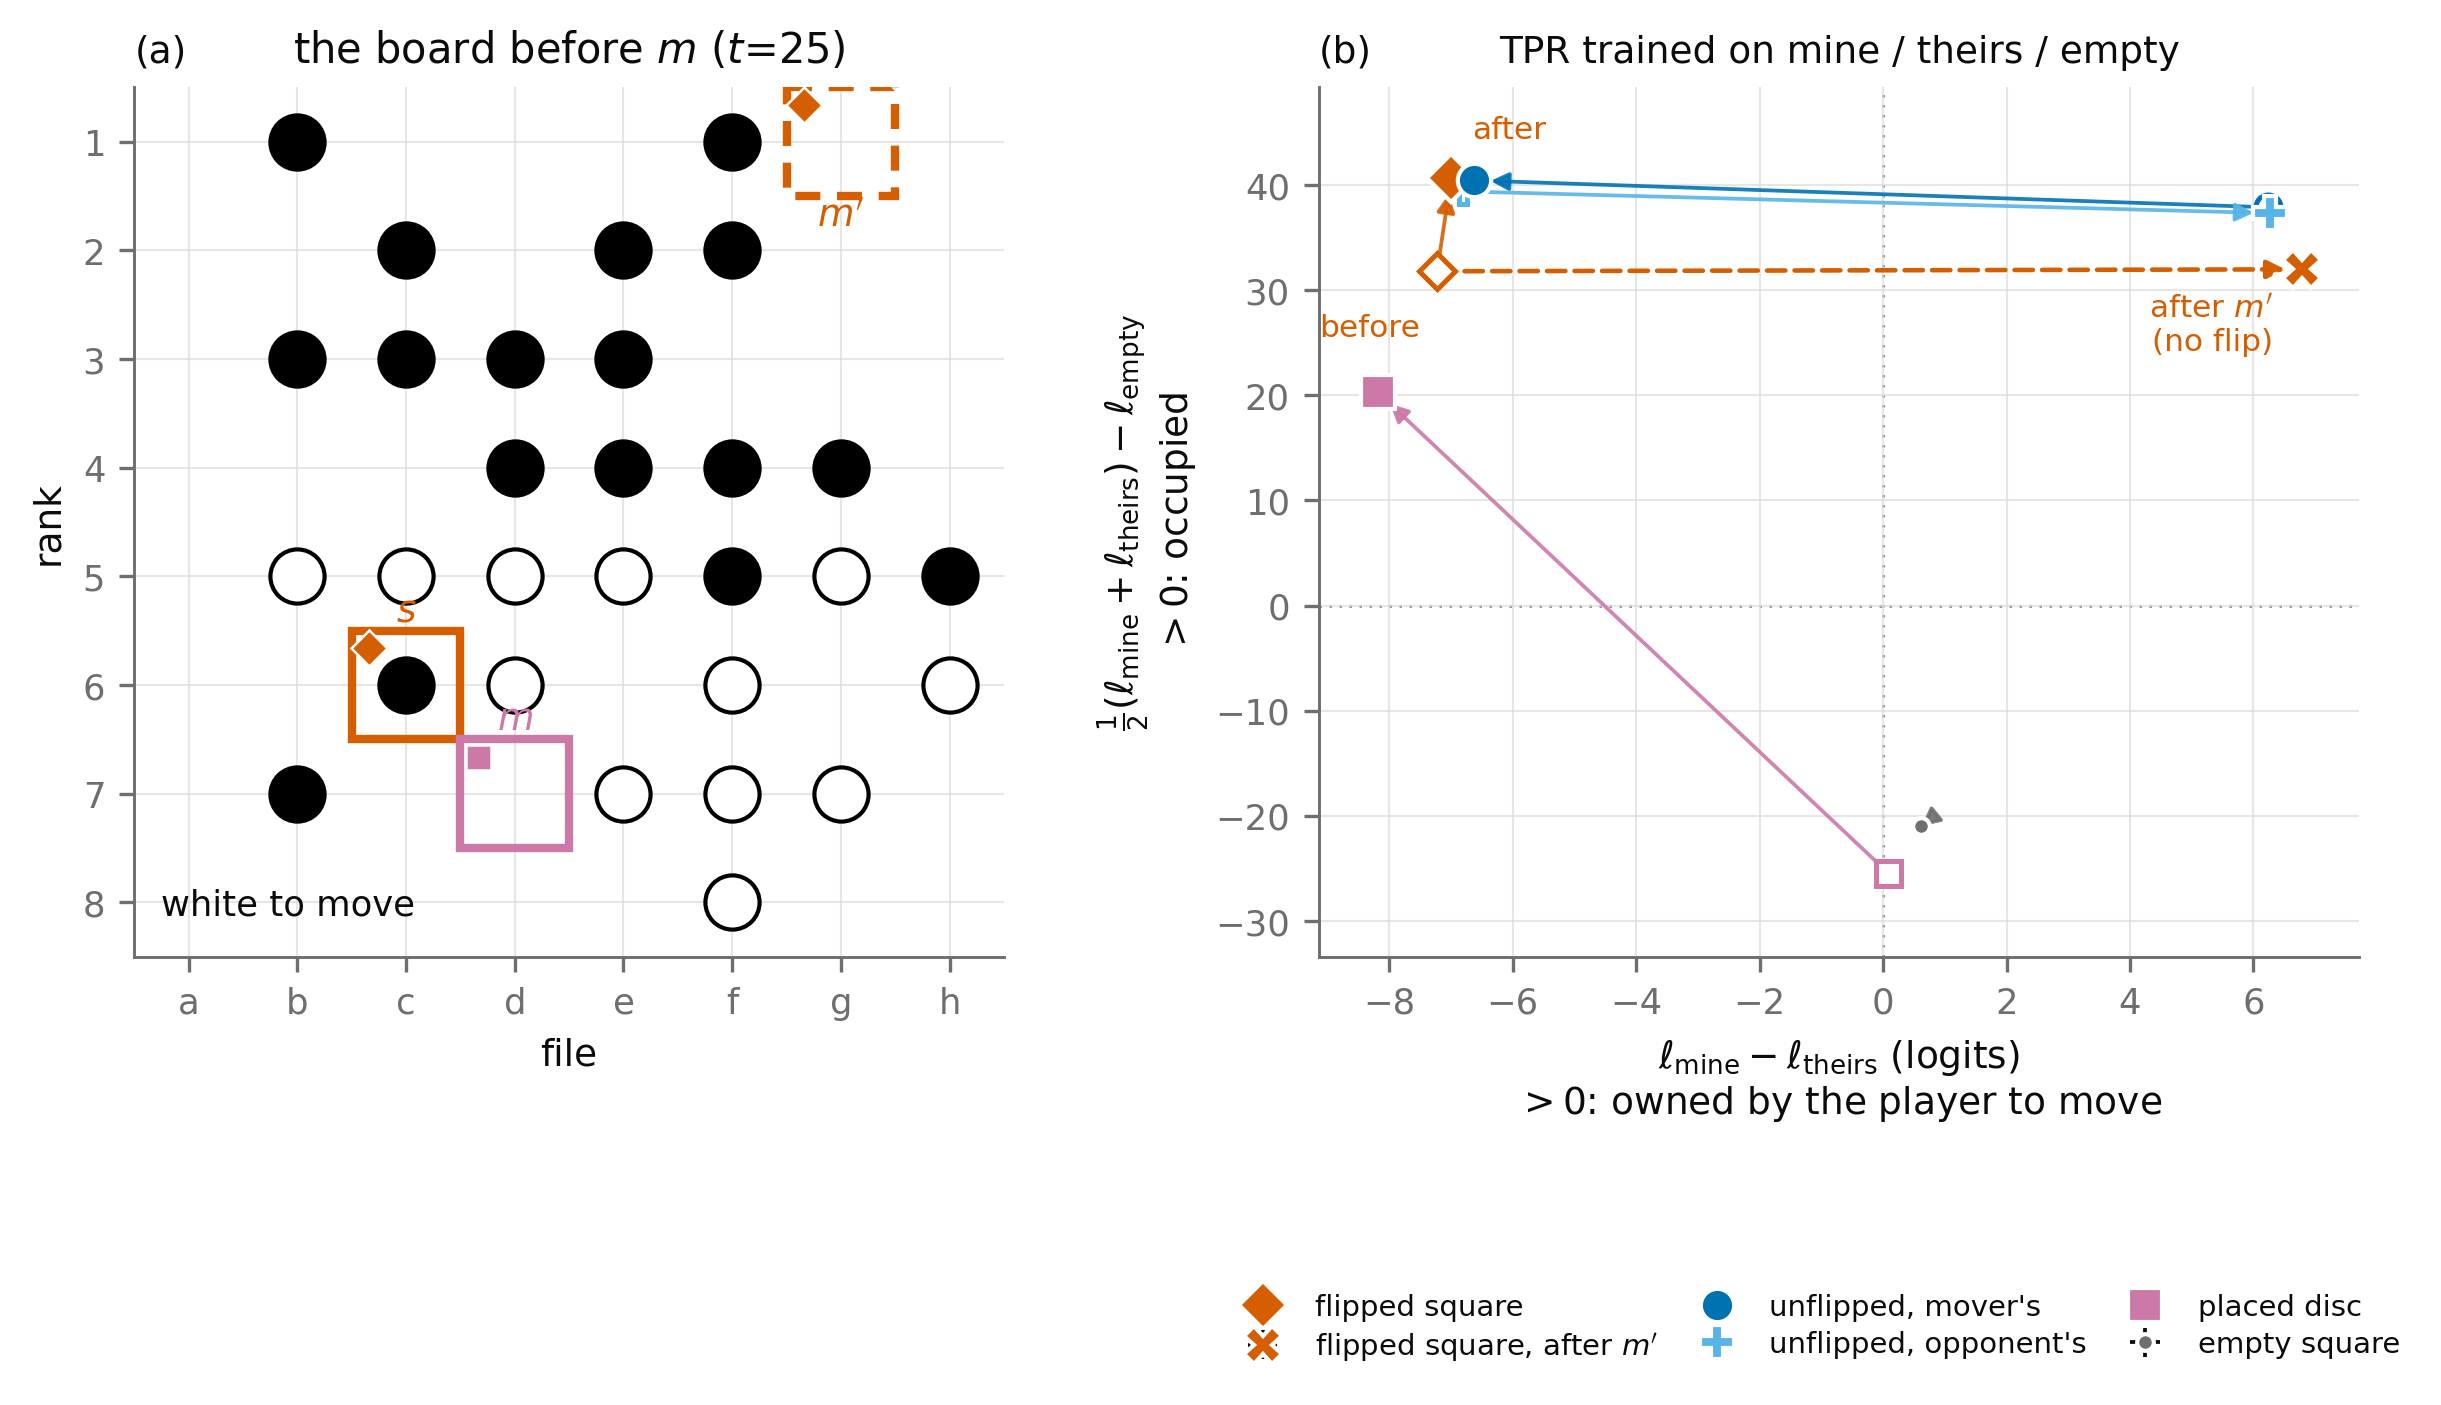
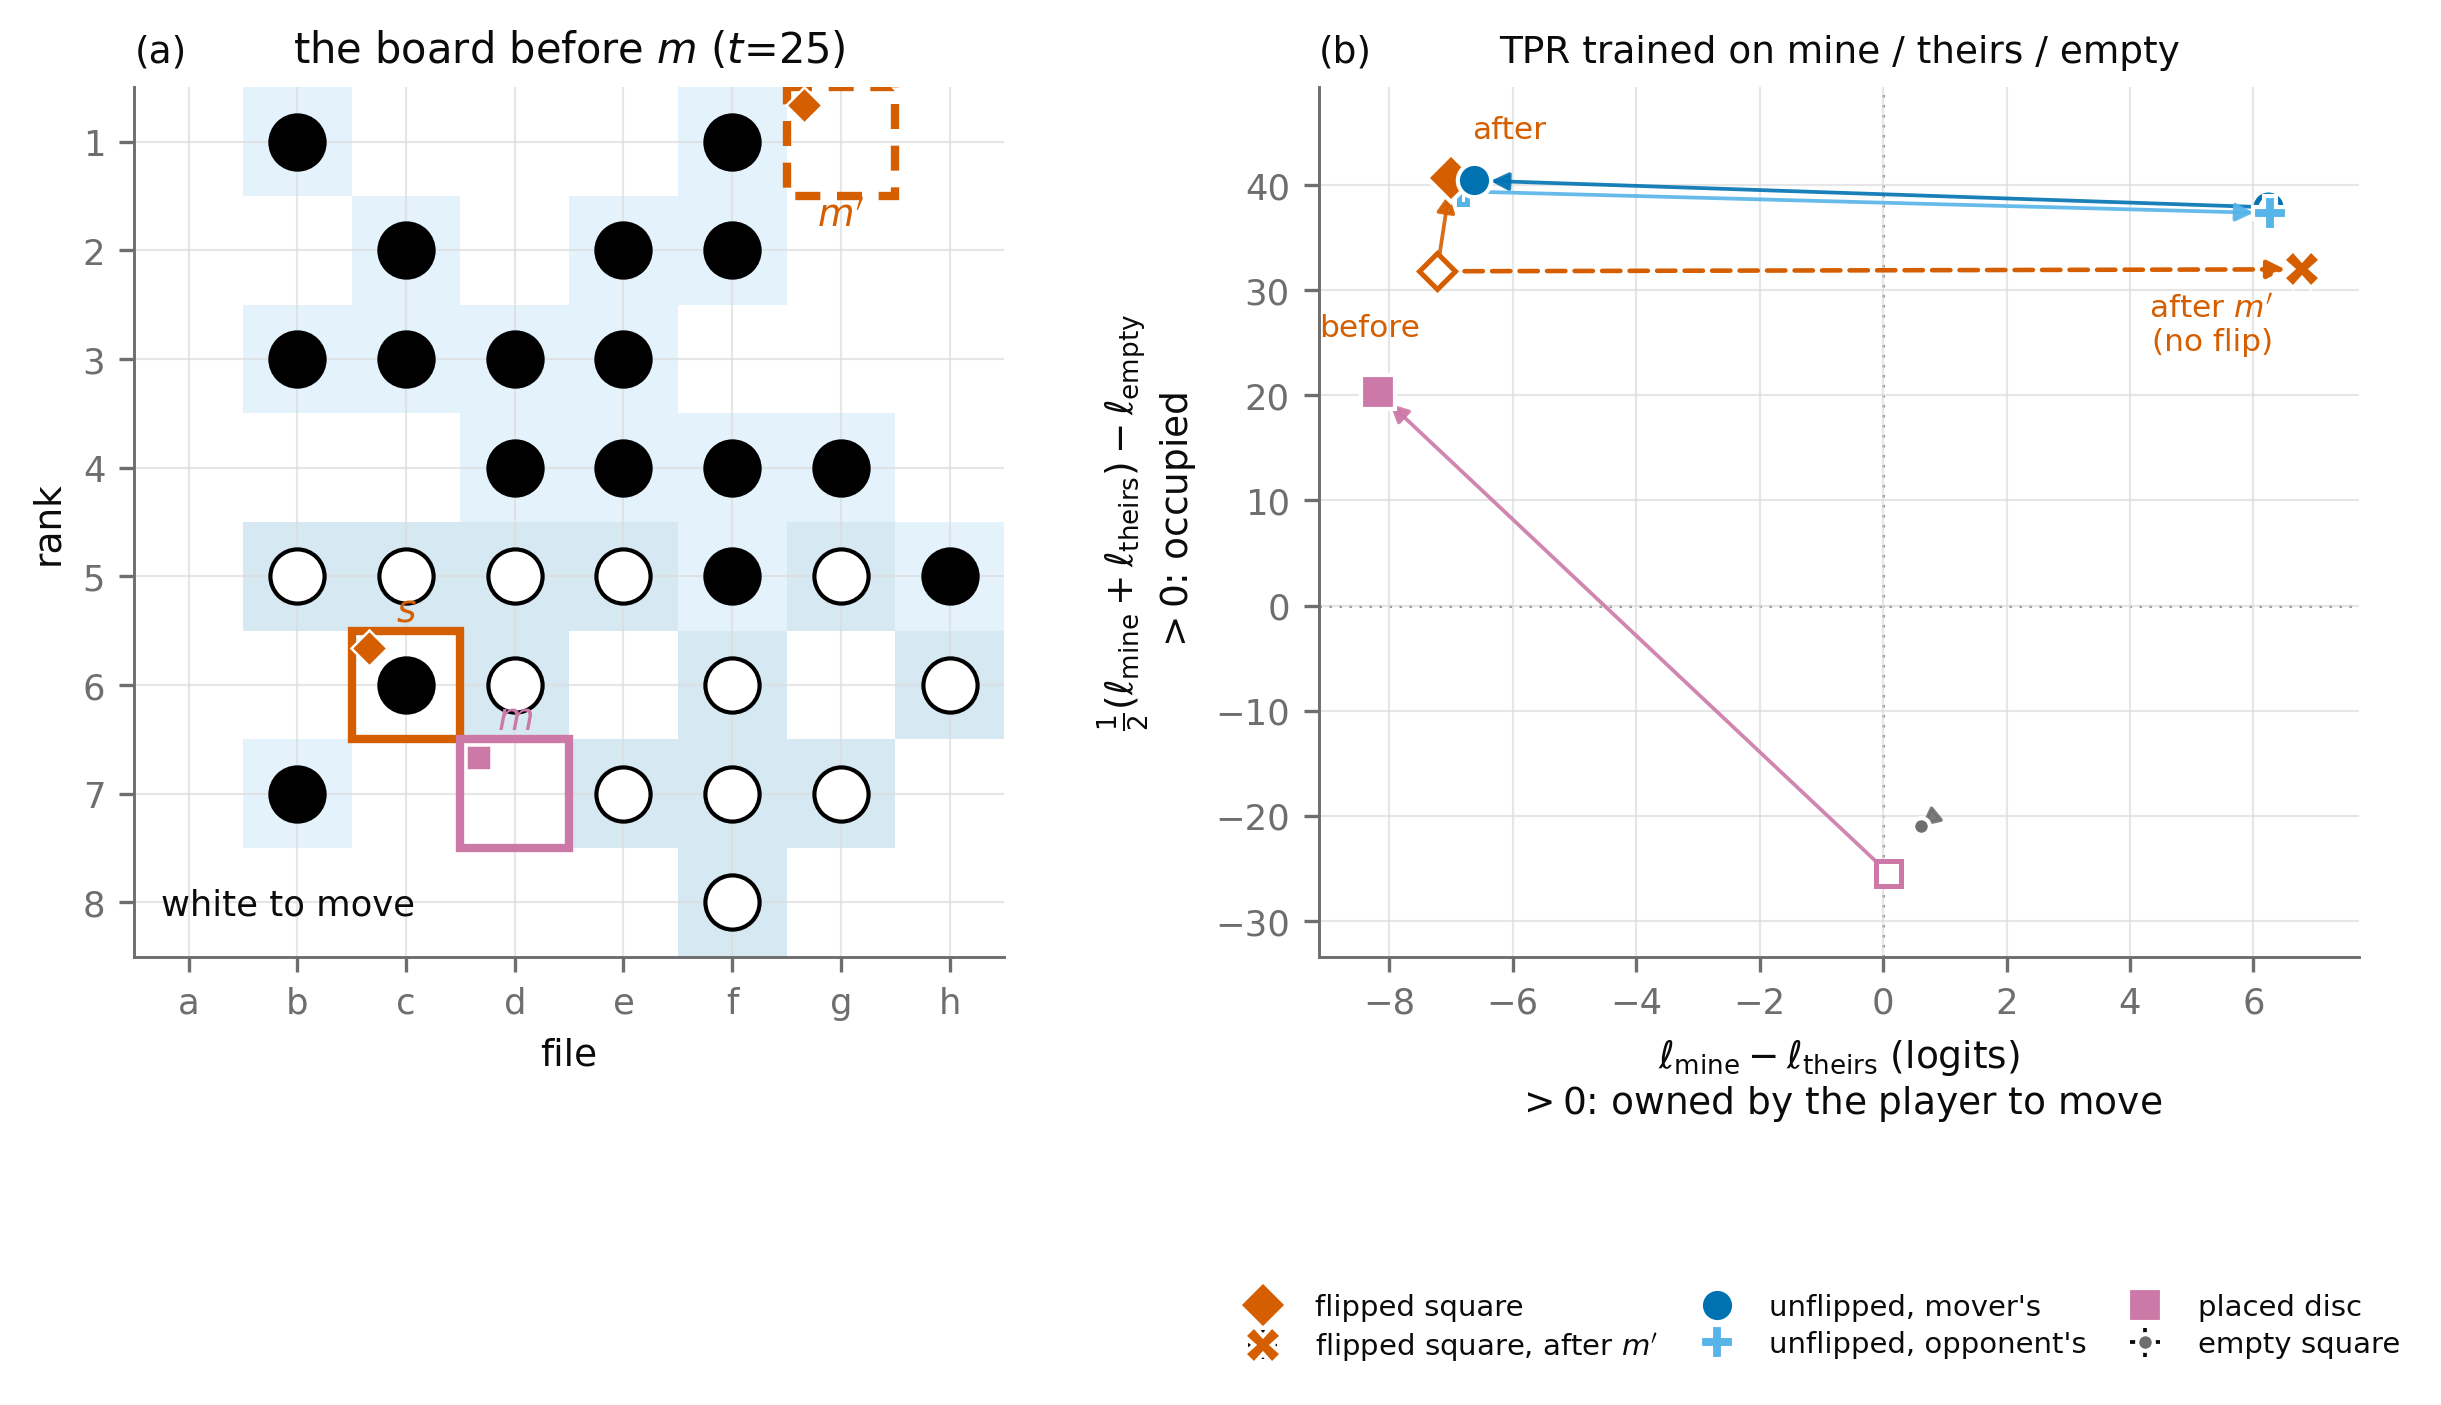
Tint the two unflipped roles back onto the board
They are the panel's one ambiguous reading: which discs the blue arrows in (b)
average over is not recoverable from the board otherwise, and unlike flipped and
placed there is no single square to outline. empty and the two singleton roles
stay untinted -- the empties would wash the board and the singletons are already
outlined and named.

Changed region(s): [[0.0934, 0.0612, 0.4359, 0.7039], [0.0934, 0.5203, 0.1557, 0.6121]]

diff --git a/analysis/bracket_flip/make_figures.py b/analysis/bracket_flip/make_figures.py
@@ -100,6 +100,10 @@ def field_panel(ax, field: pd.DataFrame, annotate: bool = False) -> None:
     ax.set_title("TPR trained on mine / theirs / empty", fontsize=9)
 
 
+# The two roles (b) draws blue arrows for. They are the only ones tinted: see board_panel.
+TINTED_ROLES = ("unflipped_own", "unflipped_opp")
+
+
 def board_panel(ax, event: pd.DataFrame, meta: pd.Series) -> None:
     """The board just before the flanking move, drawn the way every other board here is.
 
@@ -109,11 +113,18 @@ def board_panel(ax, event: pd.DataFrame, meta: pd.Series) -> None:
     non-flipping move the control branch plays instead, outlined dashed to match the dashed
     arrow it produces in the next panel.
 
-    The role shading this panel used to carry -- every square tinted by its arrow role -- is
-    gone with the fills. It covered the discs it was drawn over, and the roles are already
-    named in the shared legend beside the markers the next panel uses.
+    The two unflipped roles keep their tint, because they are the panel's one ambiguous
+    reading: which discs the blue arrows in (b) average over is not recoverable from the
+    board otherwise, and unlike `flipped` and `placed` there is no single square to outline.
+    `empty` and the two singleton roles are not tinted -- the empties would wash the board and
+    the singletons are already outlined and named.
     """
     s, m = int(meta.square_s), int(meta.square_m)
+    tinted = event[event.role.isin(TINTED_ROLES)]
+    for _, r in tinted.iterrows():
+        col, row = square_xy(int(r.square))
+        ax.add_patch(plt.Rectangle((col - 0.5, row - 0.5), 1, 1, lw=0, zorder=0,
+                                   color=SQUARE_ROLE_STYLE[r.role]["color"], alpha=0.16))
     draw_board(ax, event.sort_values("square").disc_before.to_numpy())
     ax.set_ylabel("rank")
     for square, label, role, ls in [(s, "$s$", "flipped", "-"),
